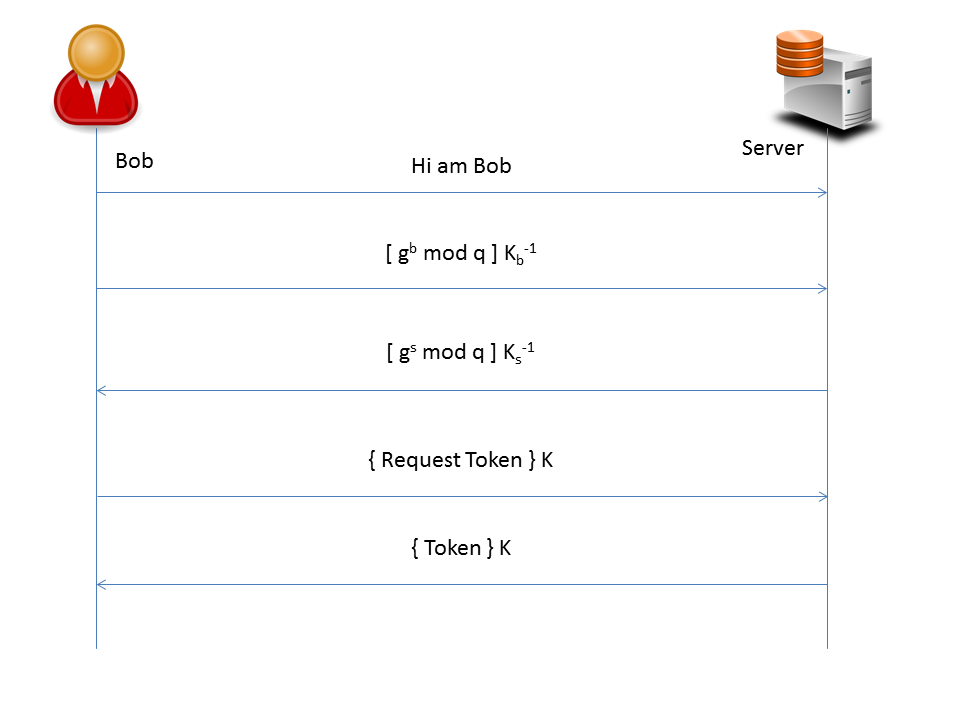
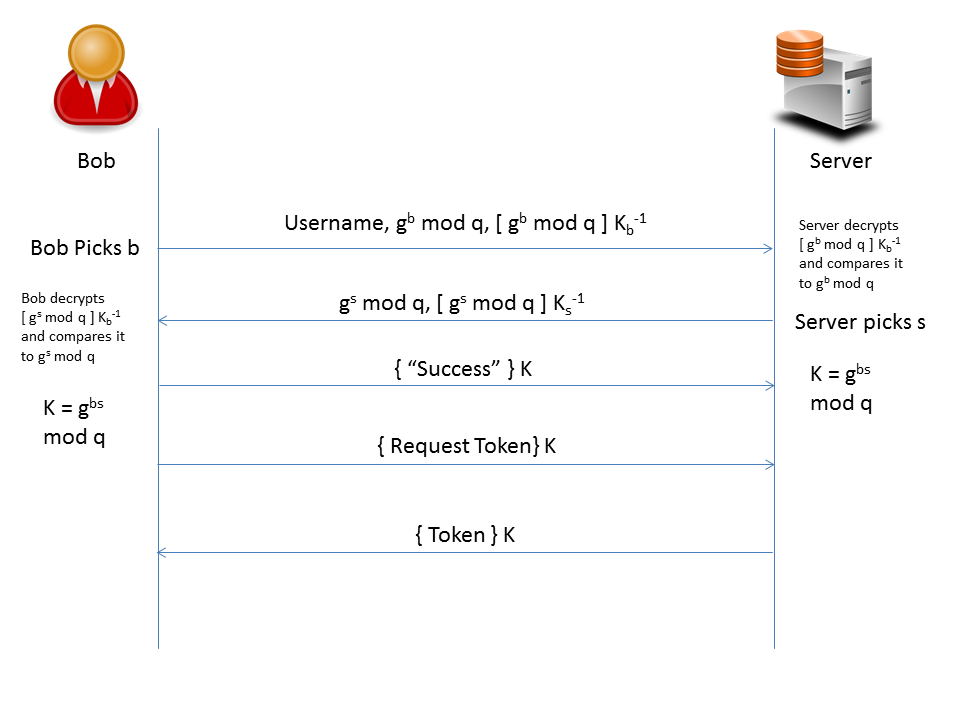
Started Public Auth extra credit

diff --git a/doc/phase3-writeup.htm b/doc/phase3-writeup.htm
@@ -330,9 +330,14 @@ well.
 <br><br>
 Two factor Authentication?
 </p>
-<h3>Solution Two: A public key cryptography protocol.</h3>
+<h3>Extra Credit: A public key cryptography authentication protocol.</h3>
 <p>
-  Our first solution is use public key cryptography to protect the system from Unauthorized Token Issuance. In this solution the user's public key is submitted
+  A system that uses public key cryptography to protect the system from Unauthorized 
+  Token Issuance and allows user to login with a RSA Public Key/Private Key pair.
+  This system allows for a user to use public key cryptography to log into the 
+  system rather than a username and password pair.
+  <br>
+  In this solution the user's public key is submitted
   to the GroupServer upon the creation of the user account. The user and server 
   create a shared secret K using a signed Diffie-Hellman protocol. This method 
   creates a shared K and authenticates the user and server with each other. <br>
